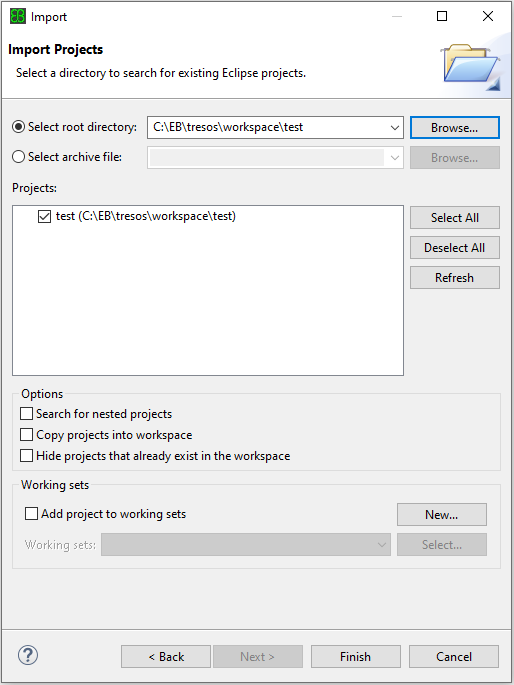
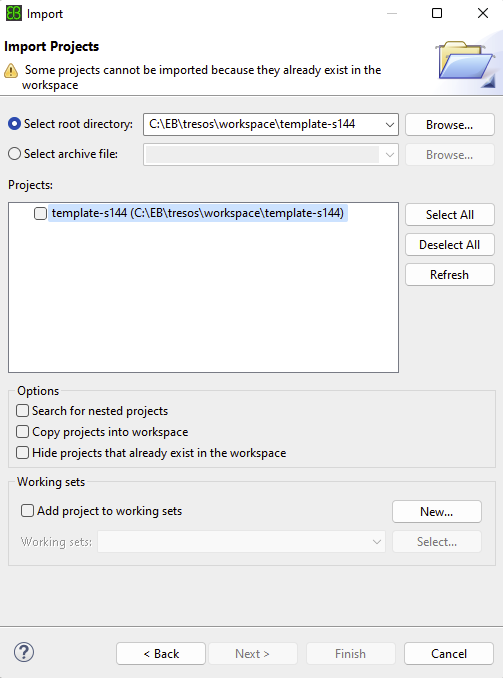
README.md updated

Changed region(s): [[0.0, 0.0, 1.0, 1.0], [0.835, 0.0, 0.8946, 0.031], [0.7455, 0.0, 0.8052, 0.031]]

diff --git a/README.md b/README.md
@@ -17,7 +17,7 @@ _<-- Back to [Top of Page](#autosar-mcal-embedded-upskilling-bootcamp)_
 1. [**Description**](#1-description)
 2. [**Hardware Requirements**](#2-hardware-requirements)
 3. [**Software Requirements**](#3-software-requirements)
-4. [**Notes**](#4-notes)
+4. [**Setup Notes**](#4-setup-notes)
 5. [**Documentation**](#5-documentation)
 6. [**Examples and Exercises**](#6-examples-and-exercises)
 7. [**Final Project**](#7-final-project)
@@ -77,17 +77,21 @@ _<-- Back to [Table of Contents](#table-of-contents)_
 
 **[SavvyCAN](https://www.savvycan.com/)** - It is a CAN bus reverse engineering and capture tool. SavvyCAN can use any CAN interface supported by QT's SerialBus system (PeakCAN, Vector, SocketCAN, J2534, etc). It can capture and send to multiple buses and CAN capture devices at once. Works on Windows/Linux/Mac and is free. 
 
-## 4. Notes
+## 4. Setup Notes
 
 _<-- Back to [Table of Contents](#table-of-contents)_
 
 * ### 4.1 Tools Installation and Configuration Guide:
 
+_Back to [Setup Notes](#4-setup-notes)_
+
 You can find here [**Setup AUTOSAR Tools**](https://embedded-house.ghost.io/part-0-setup-your-autosar-tools/) the section where Modular MX explains the right procedure to download, install and configure all needed tools, including its dependencies, how to import the template project file and flash it to the device.
 
 As a summary, these are the steps to follow in order to have the environment set up with all tools **FREE** of charge:
 
-#### For NXP / EB Tresos tools installation:
+#### <ins>For NXP / EB Tresos tools installation:<ins>
+
+_Back to [Setup Notes](#4-setup-notes)_
 
 1. Create your own NXP account.
 2. Go to [Real-Time Drivers RTD](https://www.nxp.com/design/design-center/software/automotive-software-and-tools/real-time-drivers-rtd:AUTOMOTIVE-RTD). You should scroll until you reach the Download section for the Real-Time Drivers for S32K1. Click on Download and will open a new website that asks to log-in using your account.
@@ -122,11 +126,15 @@ As a summary, these are the steps to follow in order to have the environment set
 
 ![Setup_image_7.png](https://github.com/renatosoriano/AUTOSAR-MCAL-Embedded-Upskilling-Bootcamp/blob/main/Images/Tools_Setup/Setup_image_7.png)
 
-9. Now we need a compiler, let's download the GCC NXP one from this [link](https://www.nxp.com/design/design-center/software/development-software/s32-design-studio-ide/s32-design-studio-for-s32-platform:S32DS-S32PLATFORM). Scroll down until you reach the Downloads section and there look up for this item as in the image: _NXP Embedded GCC 10.2 Compiler Tools for ARM v7 Embedded, build 1728 - Windows_. Only the compiler is needed, not the S32 Design Studio.
+9. Now we need a compiler, let's download the GCC NXP one from this [link](https://www.nxp.com/design/design-center/software/development-software/s32-design-studio-ide/s32-design-studio-for-s32-platform:S32DS-S32PLATFORM). Scroll down until you reach the Downloads section and there look up for this item as in the image: _NXP Embedded GCC 10.2 Compiler Tools for ARM v7 Embedded, build 1728 - Windows_. Proceed to install. (Only the compiler is needed, not the S32 Design Studio.)
 
 ![Setup_image_8.png](https://github.com/renatosoriano/AUTOSAR-MCAL-Embedded-Upskilling-Bootcamp/blob/main/Images/Tools_Setup/Setup_image_8.png)
 
-#### For SEGGER tools installation:
+![Setup_image_20.png](https://github.com/renatosoriano/AUTOSAR-MCAL-Embedded-Upskilling-Bootcamp/blob/main/Images/Tools_Setup/Setup_image_20.png)
+
+#### <ins>For SEGGER tools installation:<ins>
+
+_Back to [Setup Notes](#4-setup-notes)_
 
 1. For the Debugger, the hardware board provided by [Modular MX](https://www.linkedin.com/company/modular-mx/) is programmed with SEGGER J-Link to flash and debug the microcontroller. In case you acquire separately the NXP S32K144, you need to switch from OpenSDA for J-Link. Go to [**Setup AUTOSAR Tools**](https://embedded-house.ghost.io/part-0-setup-your-autosar-tools/) and perform the steps in section _Switching OpenSDA for J-Link_.
 
@@ -138,15 +146,17 @@ As a summary, these are the steps to follow in order to have the environment set
 
 ![Setup_image_10.png](https://github.com/renatosoriano/AUTOSAR-MCAL-Embedded-Upskilling-Bootcamp/blob/main/Images/Tools_Setup/Setup_image_10.png)
 
-#### For importing the EB Tresos template project file:
+#### <ins>For importing the EB Tresos template project file:<ins>
+
+_Back to [Setup Notes](#4-setup-notes)_
 
 1. Git clone the project (that also comes with a makefile to compile the basic example in there and run it into the hardware board).
 
-2. Open EB Tresos, go to **File → Import…**, then select **General → Existing Projects into Workspace**, then **Next** and **Browse…** the project folder (the cloned repository) and **Finish**.
+2. Open EB Tresos, go to **File → Import…**, then select **General → Existing Projects into Workspace**, then **Next** and **Browse…** the project folder (the cloned repository), check the template-s144 project and **Finish**. Ignore the warning in the image, is because I already have it in the workspace.
 
 ![Setup_image_11.png](https://github.com/renatosoriano/AUTOSAR-MCAL-Embedded-Upskilling-Bootcamp/blob/main/Images/Tools_Setup/Setup_image_11.png)
 
-3. Select the project and double click in **template-s144 → template-s144 (CORTEXM, S32K14X)** to display all the modules in use, then just click the hammer icon _Generate code for the currently selected project_.
+3. Select the project and double click in **template-s144 → template-s144 (CORTEXM, S32K14X)** to display all the modules in use, then just click the hammer icon _'Generate code for the currently selected project'_.
 
 ![Setup_image_12.png](https://github.com/renatosoriano/AUTOSAR-MCAL-Embedded-Upskilling-Bootcamp/blob/main/Images/Tools_Setup/Setup_image_12.png)
 
@@ -154,9 +164,11 @@ As a summary, these are the steps to follow in order to have the environment set
 
 ![Setup_image_13.png](https://github.com/renatosoriano/AUTOSAR-MCAL-Embedded-Upskilling-Bootcamp/blob/main/Images/Tools_Setup/Setup_image_13.png)
 
-#### For compiling and flashing the project to the device:
+#### <ins>For compiling and flashing the project to the device:<ins>
 
-1. You can work your code using VS Code, open the terminal and select bash as the shell (please avoid powershell). Type 'cd' then leave an empty space ' ' and then drag and drop your project folder to insert the path and then Enter. You should be ready to start compiling. Type 'make' and wait for it to finish, should see something like this:
+_Back to [Setup Notes](#4-setup-notes)_
+
+1. You can work your code using VS Code, open the terminal and select **bash** as the shell (please avoid **powershell**). Type 'cd' then leave an empty space ' ' and then drag and drop your project folder to insert the path and then Enter. You should be ready to start compiling. Type '**make**' and wait for it to finish, should see something like this:
 
 ![Setup_image_14.png](https://github.com/renatosoriano/AUTOSAR-MCAL-Embedded-Upskilling-Bootcamp/blob/main/Images/Tools_Setup/Setup_image_14.png)
 
@@ -193,6 +205,9 @@ $ make
 7. And that's it! Don't forget to read Ozone documentation to get familiar with all the amazing functions it provides (call stack, disassembly, registers, memory), it is really powerful.
 
 * ### 4.2 Ozone .jdebug files made portable for running debugger correctly:
+
+_Back to [Setup Notes](#4-setup-notes)_
+
 After generating MCAL source files with EB Tresos Studio IDE and building the project, we need to make use of the .jdebug files that I'm providing in order to be capable or flashing the board with Ozone as well as for debugging. 
 These files after generated were modified to be portable (using $(ProjectDir)), hence no need to be modified again and are ready to be executed.
 
